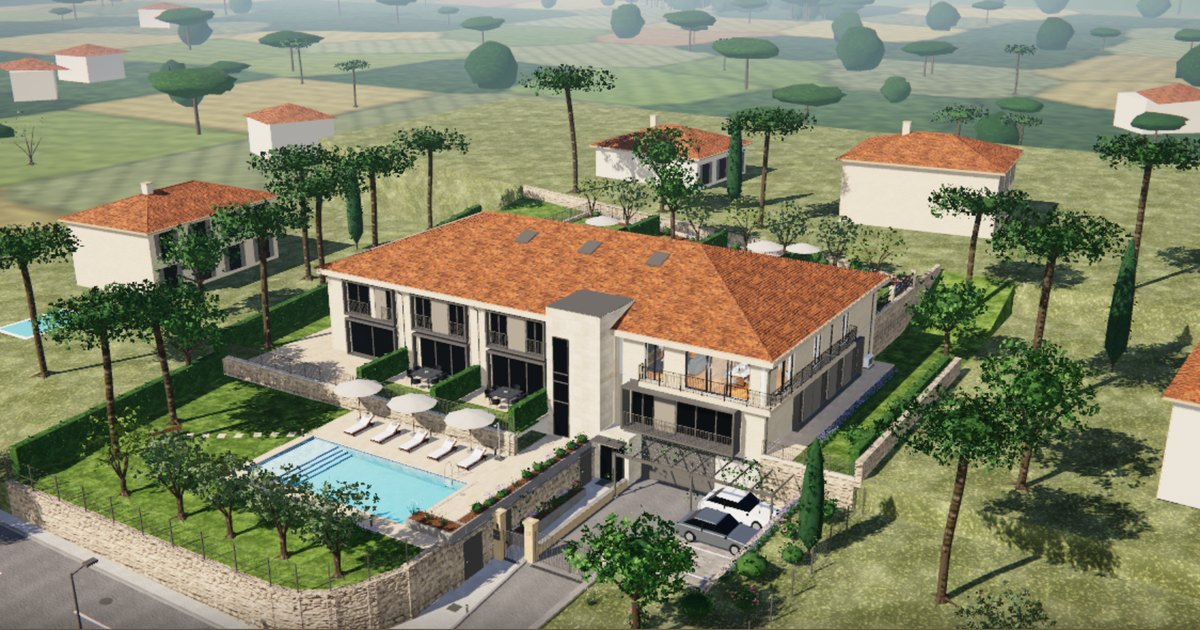
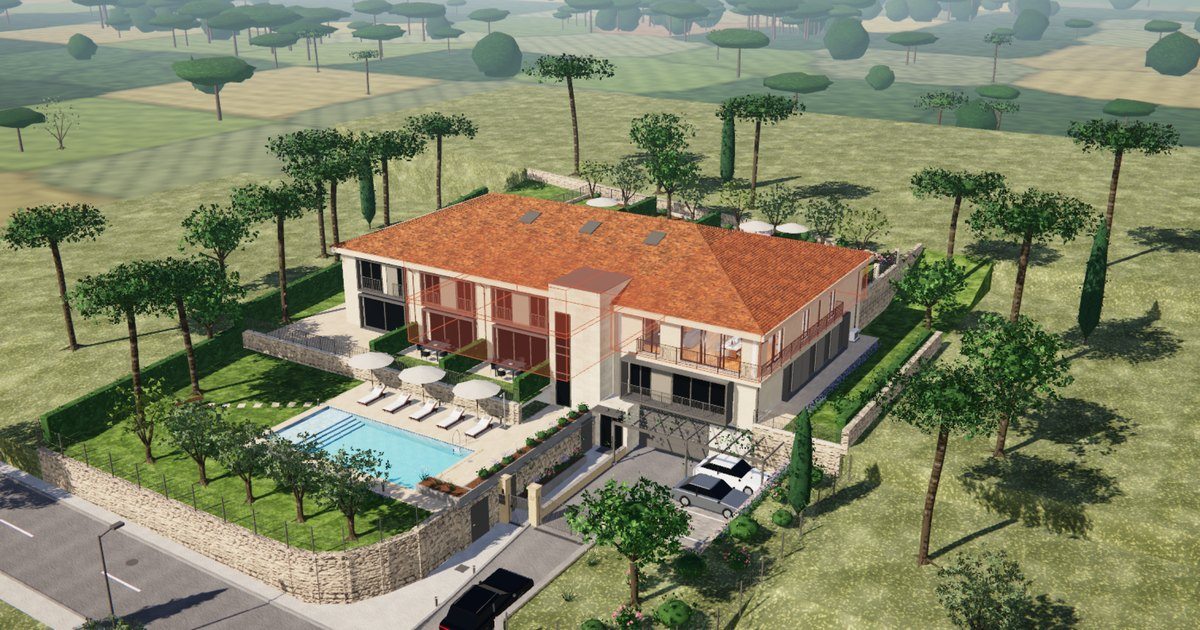
Visite 3D, vue Résidence : maisons voisines retirées (pas de vis-à-vis)
Les 7 maisons dessinées autour de la parcelle (site.js) et les 42 toits du
quartier semés au loin (env.js) ne sont plus construits ; arbres, terrains
et relief restent. Image de partage refaite. Demande de Gabriel.

diff --git a/visite-3d.html b/visite-3d.html
@@ -31,11 +31,11 @@
 
   <link rel="stylesheet" href="/style.css?v=d968c7ca" />
   <!-- Visite 3D : après toute modification d'un fichier de /visite, changer l'empreinte ?v= ci-dessous (feuille de style et carte d'import). -->
-  <link rel="stylesheet" href="/visite/visite.css?v=b518875e" />
+  <link rel="stylesheet" href="/visite/visite.css?v=3a8916f9" />
   <link rel="preload" as="font" type="font/woff2" crossorigin href="/fonts/gilda-display-latin.woff2" />
   <link rel="preload" as="font" type="font/woff2" crossorigin href="/fonts/jost-latin.woff2" />
   <link rel="preload" as="font" type="font/woff2" crossorigin href="/fonts/whisper-400-latin.woff2" />
-  <script type="importmap">{"imports":{"three":"/vendor/three/three.module.min.js?v=r170","three/addons/":"/vendor/three/addons/","v3d/geo":"/visite/js/geo.js?v=b518875e","v3d/flora":"/visite/js/flora.js?v=b518875e","v3d/materials":"/visite/js/materials.js?v=b518875e","v3d/furniture":"/visite/js/furniture.js?v=b518875e","v3d/build":"/visite/js/build.js?v=b518875e","v3d/pool":"/visite/js/pool.js?v=b518875e","v3d/site":"/visite/js/site.js?v=b518875e","v3d/decor":"/visite/js/decor.js?v=b518875e","v3d/plans":"/visite/js/plans.js?v=b518875e","v3d/env":"/visite/js/env.js?v=b518875e","v3d/nav":"/visite/js/nav.js?v=b518875e","v3d/main":"/visite/js/main.js?v=b518875e"}}</script>
+  <script type="importmap">{"imports":{"three":"/vendor/three/three.module.min.js?v=r170","three/addons/":"/vendor/three/addons/","v3d/geo":"/visite/js/geo.js?v=3a8916f9","v3d/flora":"/visite/js/flora.js?v=3a8916f9","v3d/materials":"/visite/js/materials.js?v=3a8916f9","v3d/furniture":"/visite/js/furniture.js?v=3a8916f9","v3d/build":"/visite/js/build.js?v=3a8916f9","v3d/pool":"/visite/js/pool.js?v=3a8916f9","v3d/site":"/visite/js/site.js?v=3a8916f9","v3d/decor":"/visite/js/decor.js?v=3a8916f9","v3d/plans":"/visite/js/plans.js?v=3a8916f9","v3d/env":"/visite/js/env.js?v=3a8916f9","v3d/nav":"/visite/js/nav.js?v=3a8916f9","v3d/main":"/visite/js/main.js?v=3a8916f9"}}</script>
   <link rel="modulepreload" href="/vendor/three/three.module.min.js?v=r170" />
 
   <script type="application/ld+json">

diff --git a/visite/js/env.js b/visite/js/env.js
@@ -296,7 +296,7 @@ export class Environment {
       const f = ridge(hills(s + 40, 18, 0.1), this.cloudTex, { dist: 900, width: 2400, height: 30, base: gy + 3, color: 0x939f9c, seed: s + 40, cell: 50 });   // lointain bleuté derrière
       f.rotation.y = rot; add(f, new THREE.Vector3(-Math.cos(rot), 0, Math.sin(rot)));
     }
-    // arbres et toits du voisinage
+    // arbres du voisinage (sans maisons : pas de vis-à-vis)
     const b = new Batch(); b.on('land');
     const R = rng(apt.id.length * 97 + 5);
     const place = (x, z, kind, h) => {
@@ -306,10 +306,6 @@ export class Environment {
     for (let i = 0; i < this.quality.trees; i++) {
       const a = R() * 6.283, d = 86 + R() * 120, x = center.x + Math.cos(a) * d, z = center.z + Math.sin(a) * d, k = R();
       place(x, z, k < 0.55 ? 'pine' : k < 0.8 ? 'cypress' : 'olive', 6 + R() * 6);
-    }
-    for (let i = 0; i < 42; i++) {                                                          // maisons du quartier, toits de tuiles
-      const a = R() * 6.283, d = 96 + Math.pow(R(), 0.8) * 330, x = center.x + Math.cos(a) * d, z = center.z + Math.sin(a) * d, w = 9 + R() * 7, dd = 7 + R() * 5, rot = R() * 3;
-      b.push(x, gy, z, rot); b.box(M.massing, -w / 2, 0, -dd / 2, w / 2, 5.5, dd / 2); b.geo(M.roof, new THREE.ConeGeometry(Math.max(w, dd) * 0.78, 2, 4), 0, 6.5, 0, 0, Math.PI / 4, 0, 1, 1, dd / w); b.pop();
     }
     const L = b.build(this.near);
     if (L.land) L.land.traverse(o => { if (o.isMesh) { o.castShadow = false; o.receiveShadow = false; } });

diff --git a/visite/js/site.js b/visite/js/site.js
@@ -537,10 +537,8 @@ export function buildSite(b, M, { o, skip }) {
   // clôture et haie le long de l'avenue au Nord de l'accès (massif conservé)
   fence(b, M, [[39.62, 1.4], [LIM_E - 0.05, -40]], (x, z) => yAv(z) + 0.12, 1.5);
 
-  // ── Voisinage : maisons et jardins des parcelles alentour, arbres de haute tige ──
-  house(b, M, 55, yAv(2) + 0.14, 2, 13, 9, 0.12, 5.6); house(b, M, 57, yAv(30) + 0.1, 30, 11, 10, -0.1, 3.2, 'massing'); house(b, M, 55, yAv(-24) + 0.14, -24, 12, 9, 0.2, 5.6, 'massing');
-  house(b, M, 9, -0.7, 58, 14, 9, 0.08, 5.6); box('wallTile', 20.5, -0.75, 53.5, 26.5, -0.7, 57.5); box('water', 20.8, -0.8, 53.8, 26.2, -0.68, 57.2);
-  house(b, M, 6, 0.2, -24, 12, 9, -0.06, 5.6, 'massing'); house(b, M, -30, 2.6, 6, 10, 13, 0.1, 5.6); house(b, M, -34, 2.6, 34, 10, 12, -0.05, 3.2, 'massing');
+  // ── Voisinage : terrains des parcelles alentour et arbres de haute tige ──
+  // (maisons voisines volontairement non représentées : pas de vis-à-vis dans la vue de la résidence)
   S('earth', [[-70, -60], [-14.5, -60], [-14.5, 7.1], [-13.0, 7.1], [xP(80), 80], [-70, 80]], 2.55, 8.85);   // parcelle voisine, plus haute, derrière le soutènement existant
   S('earth', [[-14.5, zS(-14.5)], [30, zS(30)], [30, 80], [-14.5, 80]], -0.7, 5.6);                           // parcelles au Sud
   S('earth', [[30, zS(30)], [LIM_E, zS(LIM_E)], [LIM_E, 80], [30, 80]], (x) => -0.7 - (x - 30) * 0.1, 5.6);
